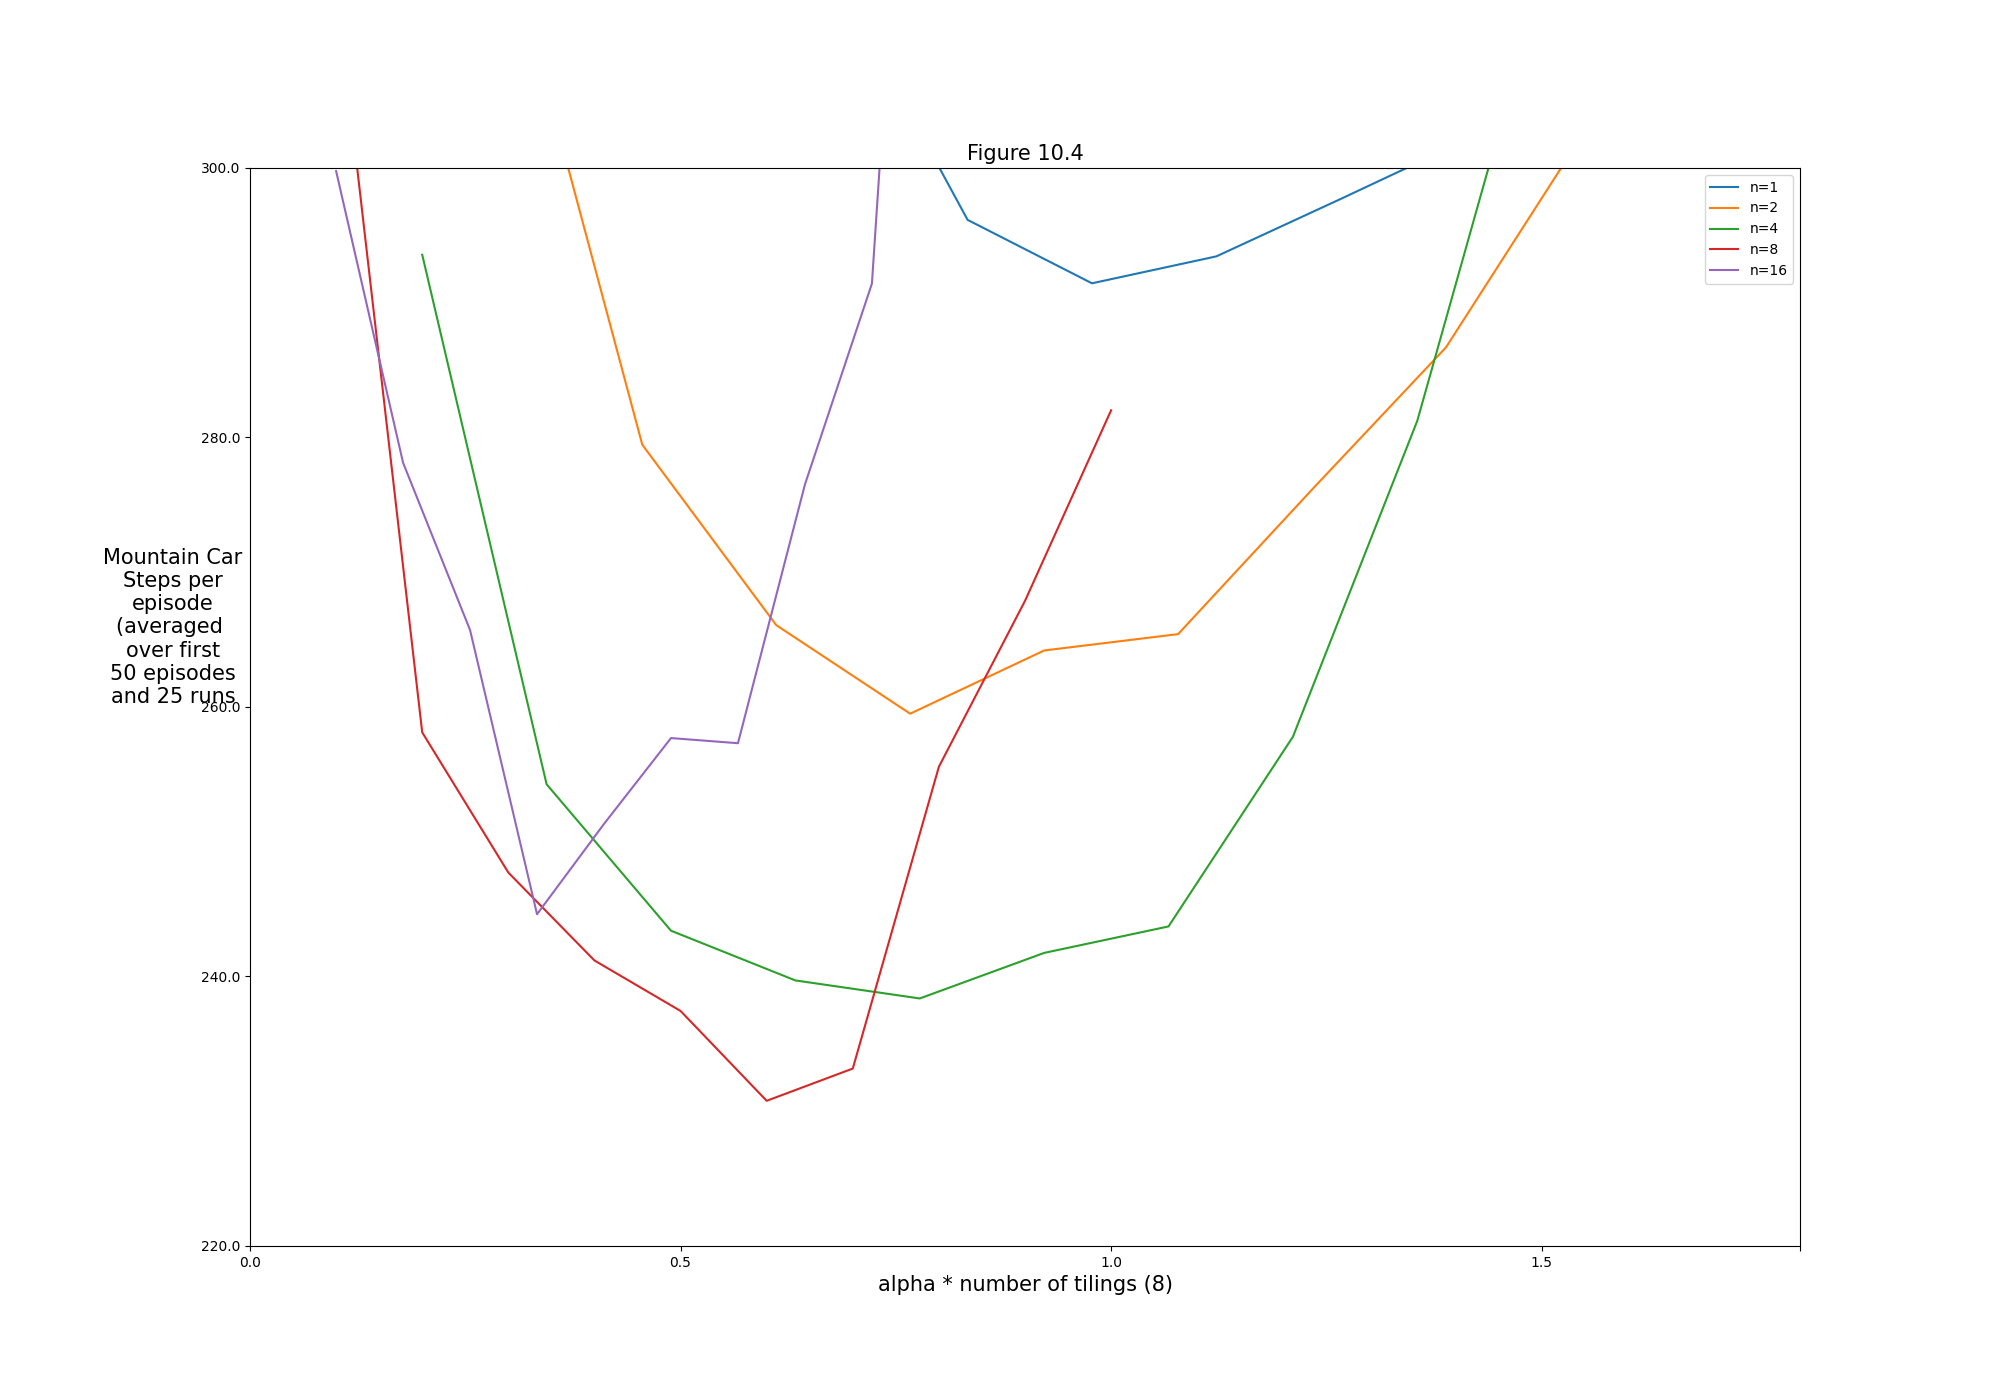
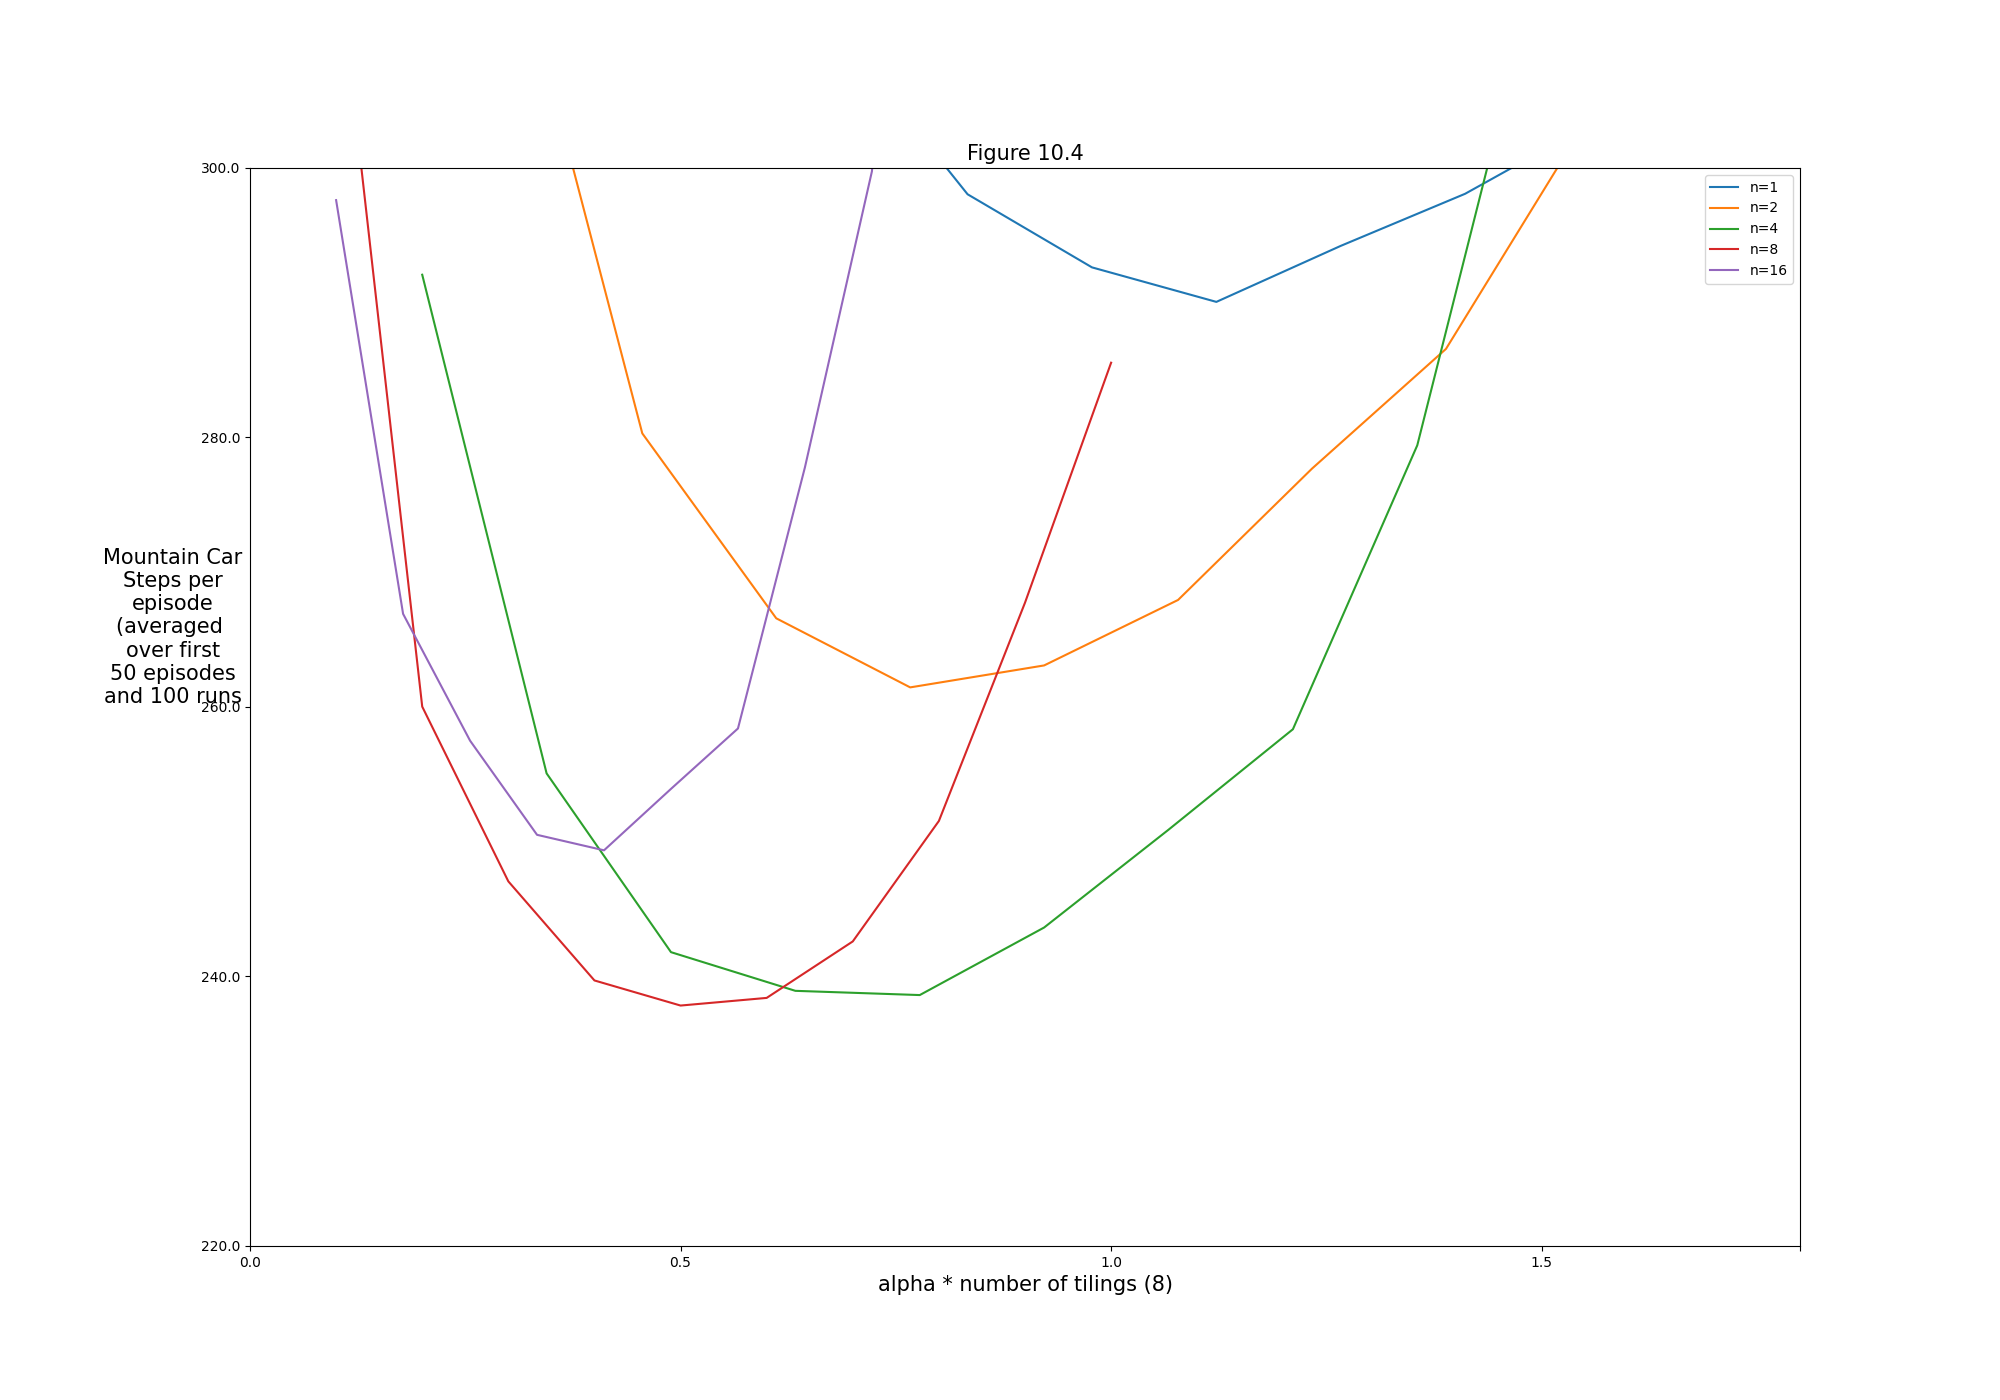
[DONE] chapter 10

diff --git a/chapter10/figures.py b/chapter10/figures.py
@@ -33,7 +33,7 @@ FIG_10_3_N_RUNS = 100
 
 FIG_10_4_N_EP = 50
 FIG_10_4_G = FIG_10_2_G
-FIG_10_4_N_RUNS = 25
+FIG_10_4_N_RUNS = 100
 FIG_10_4_ALP_PTS = 10
 FIG_10_4_ALP_BND = {
   1: [0.4, 1.7],
